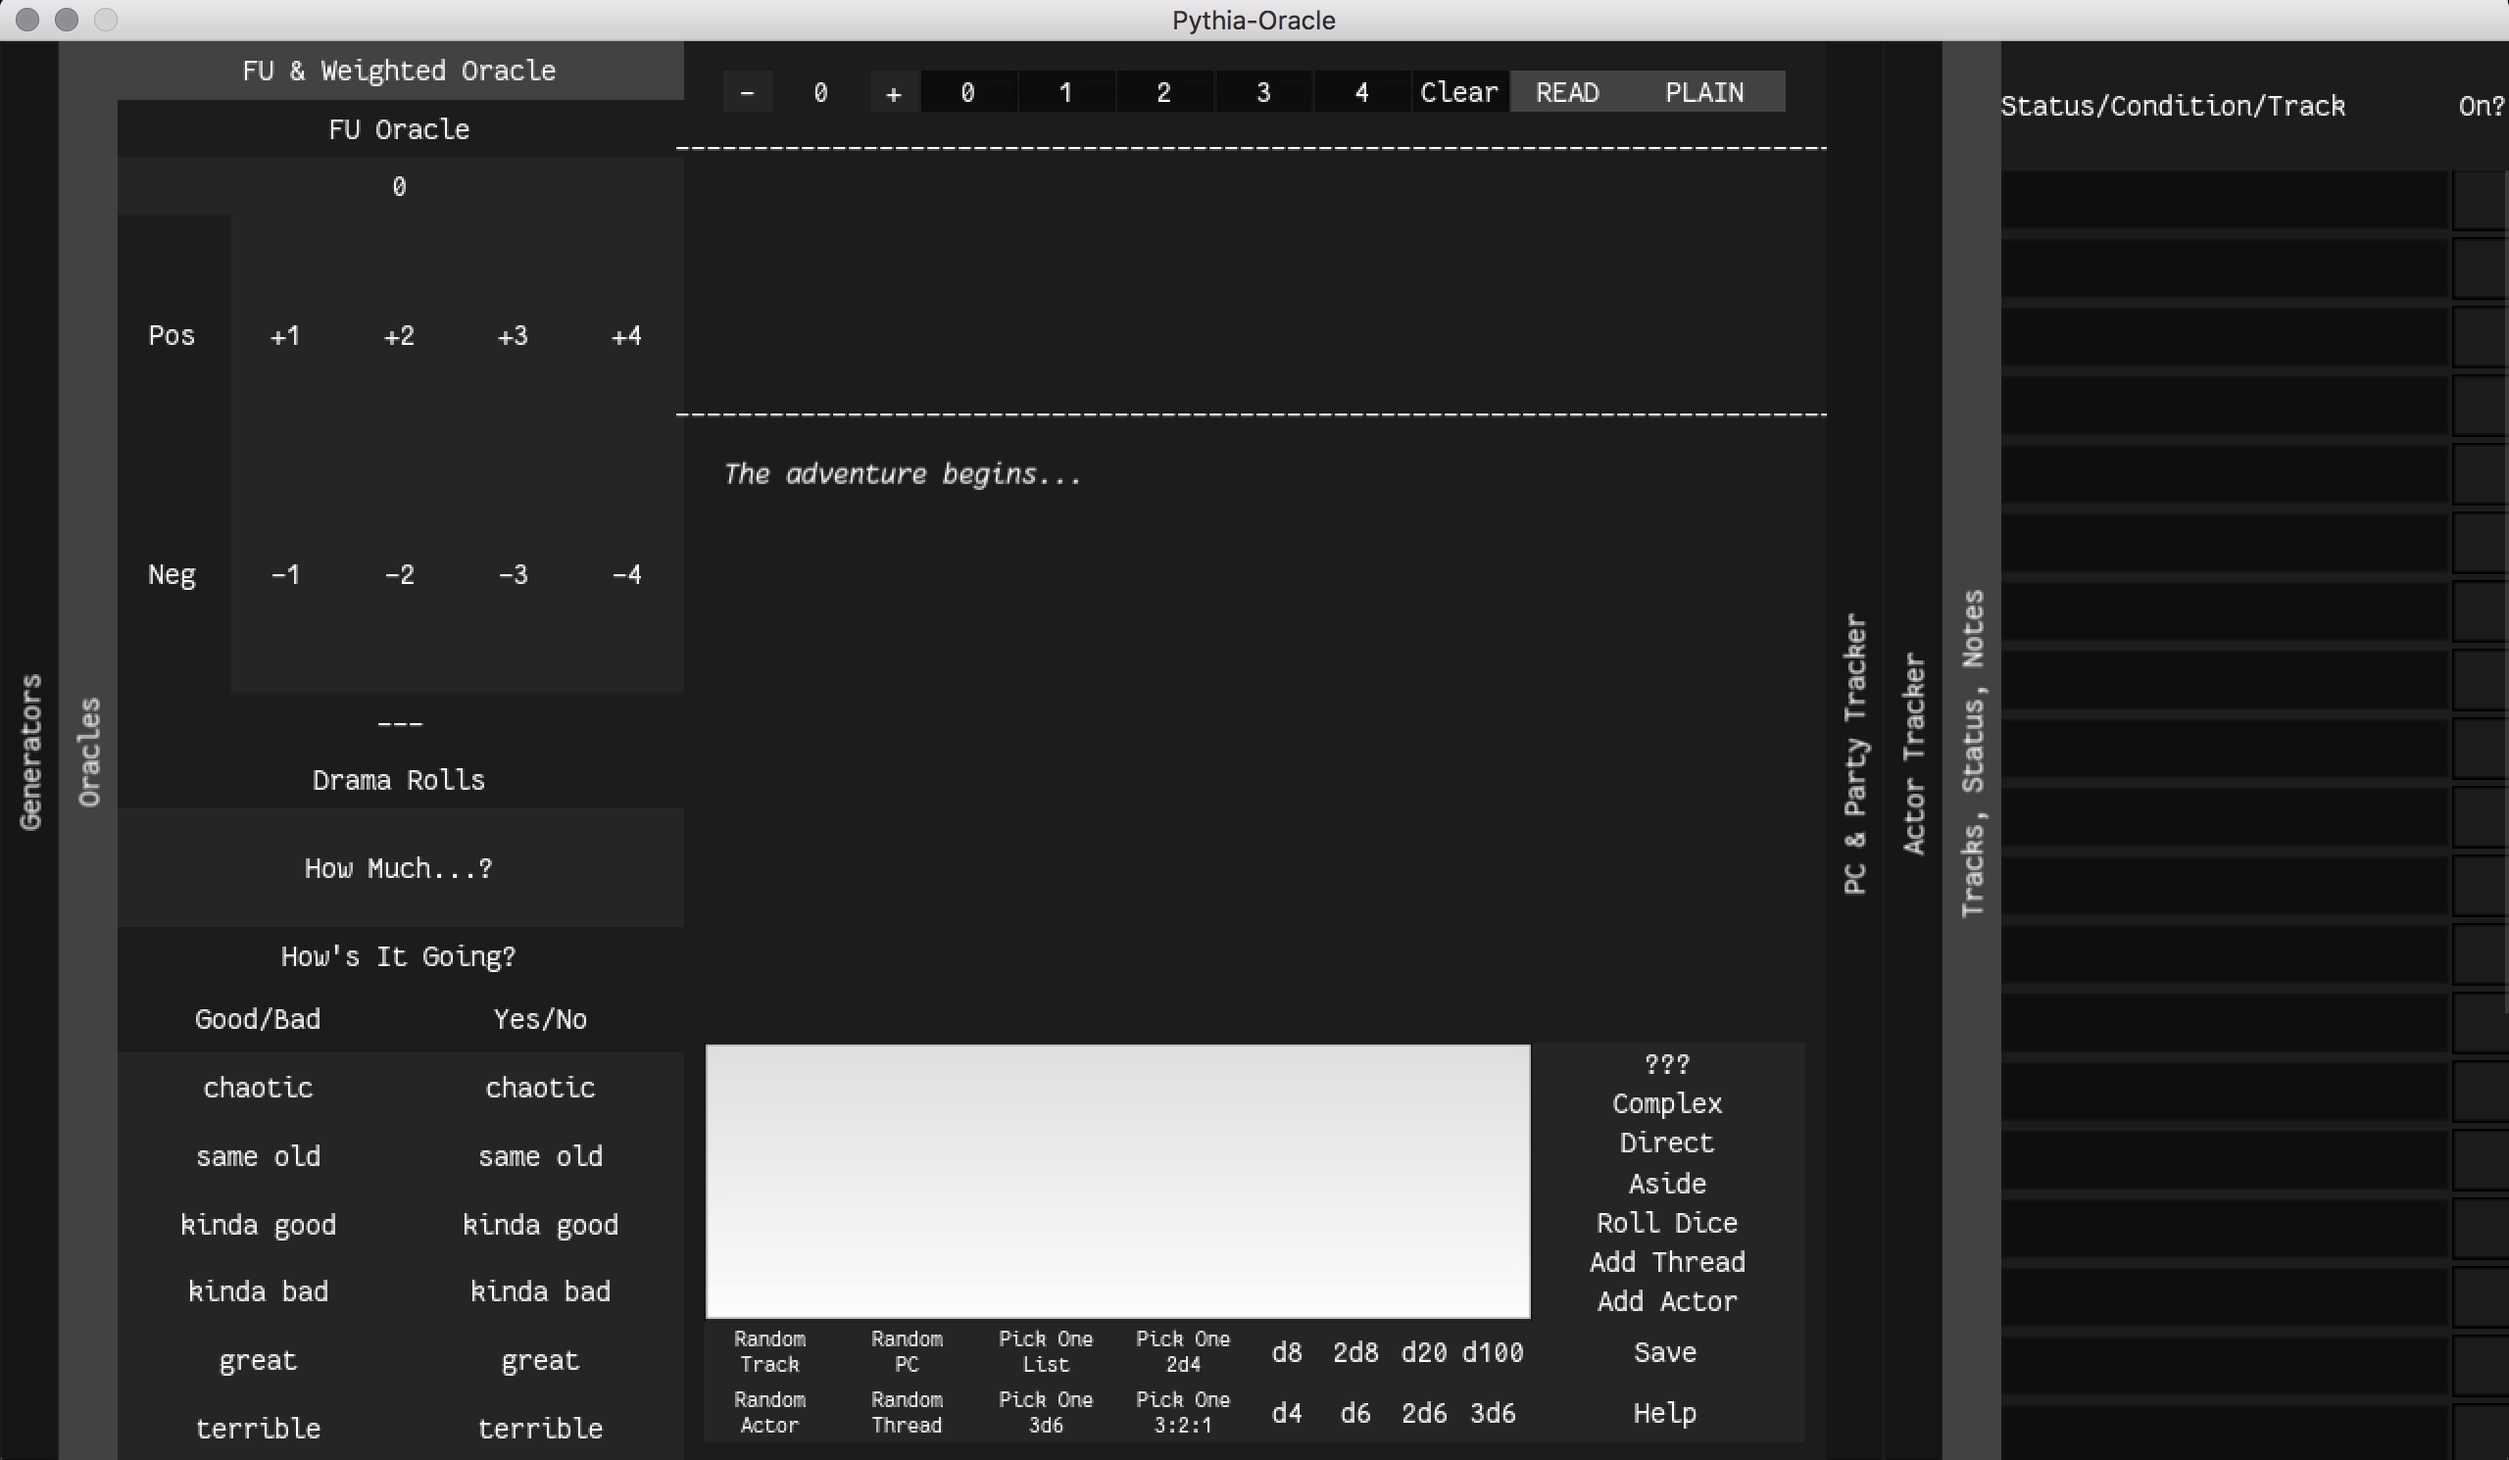
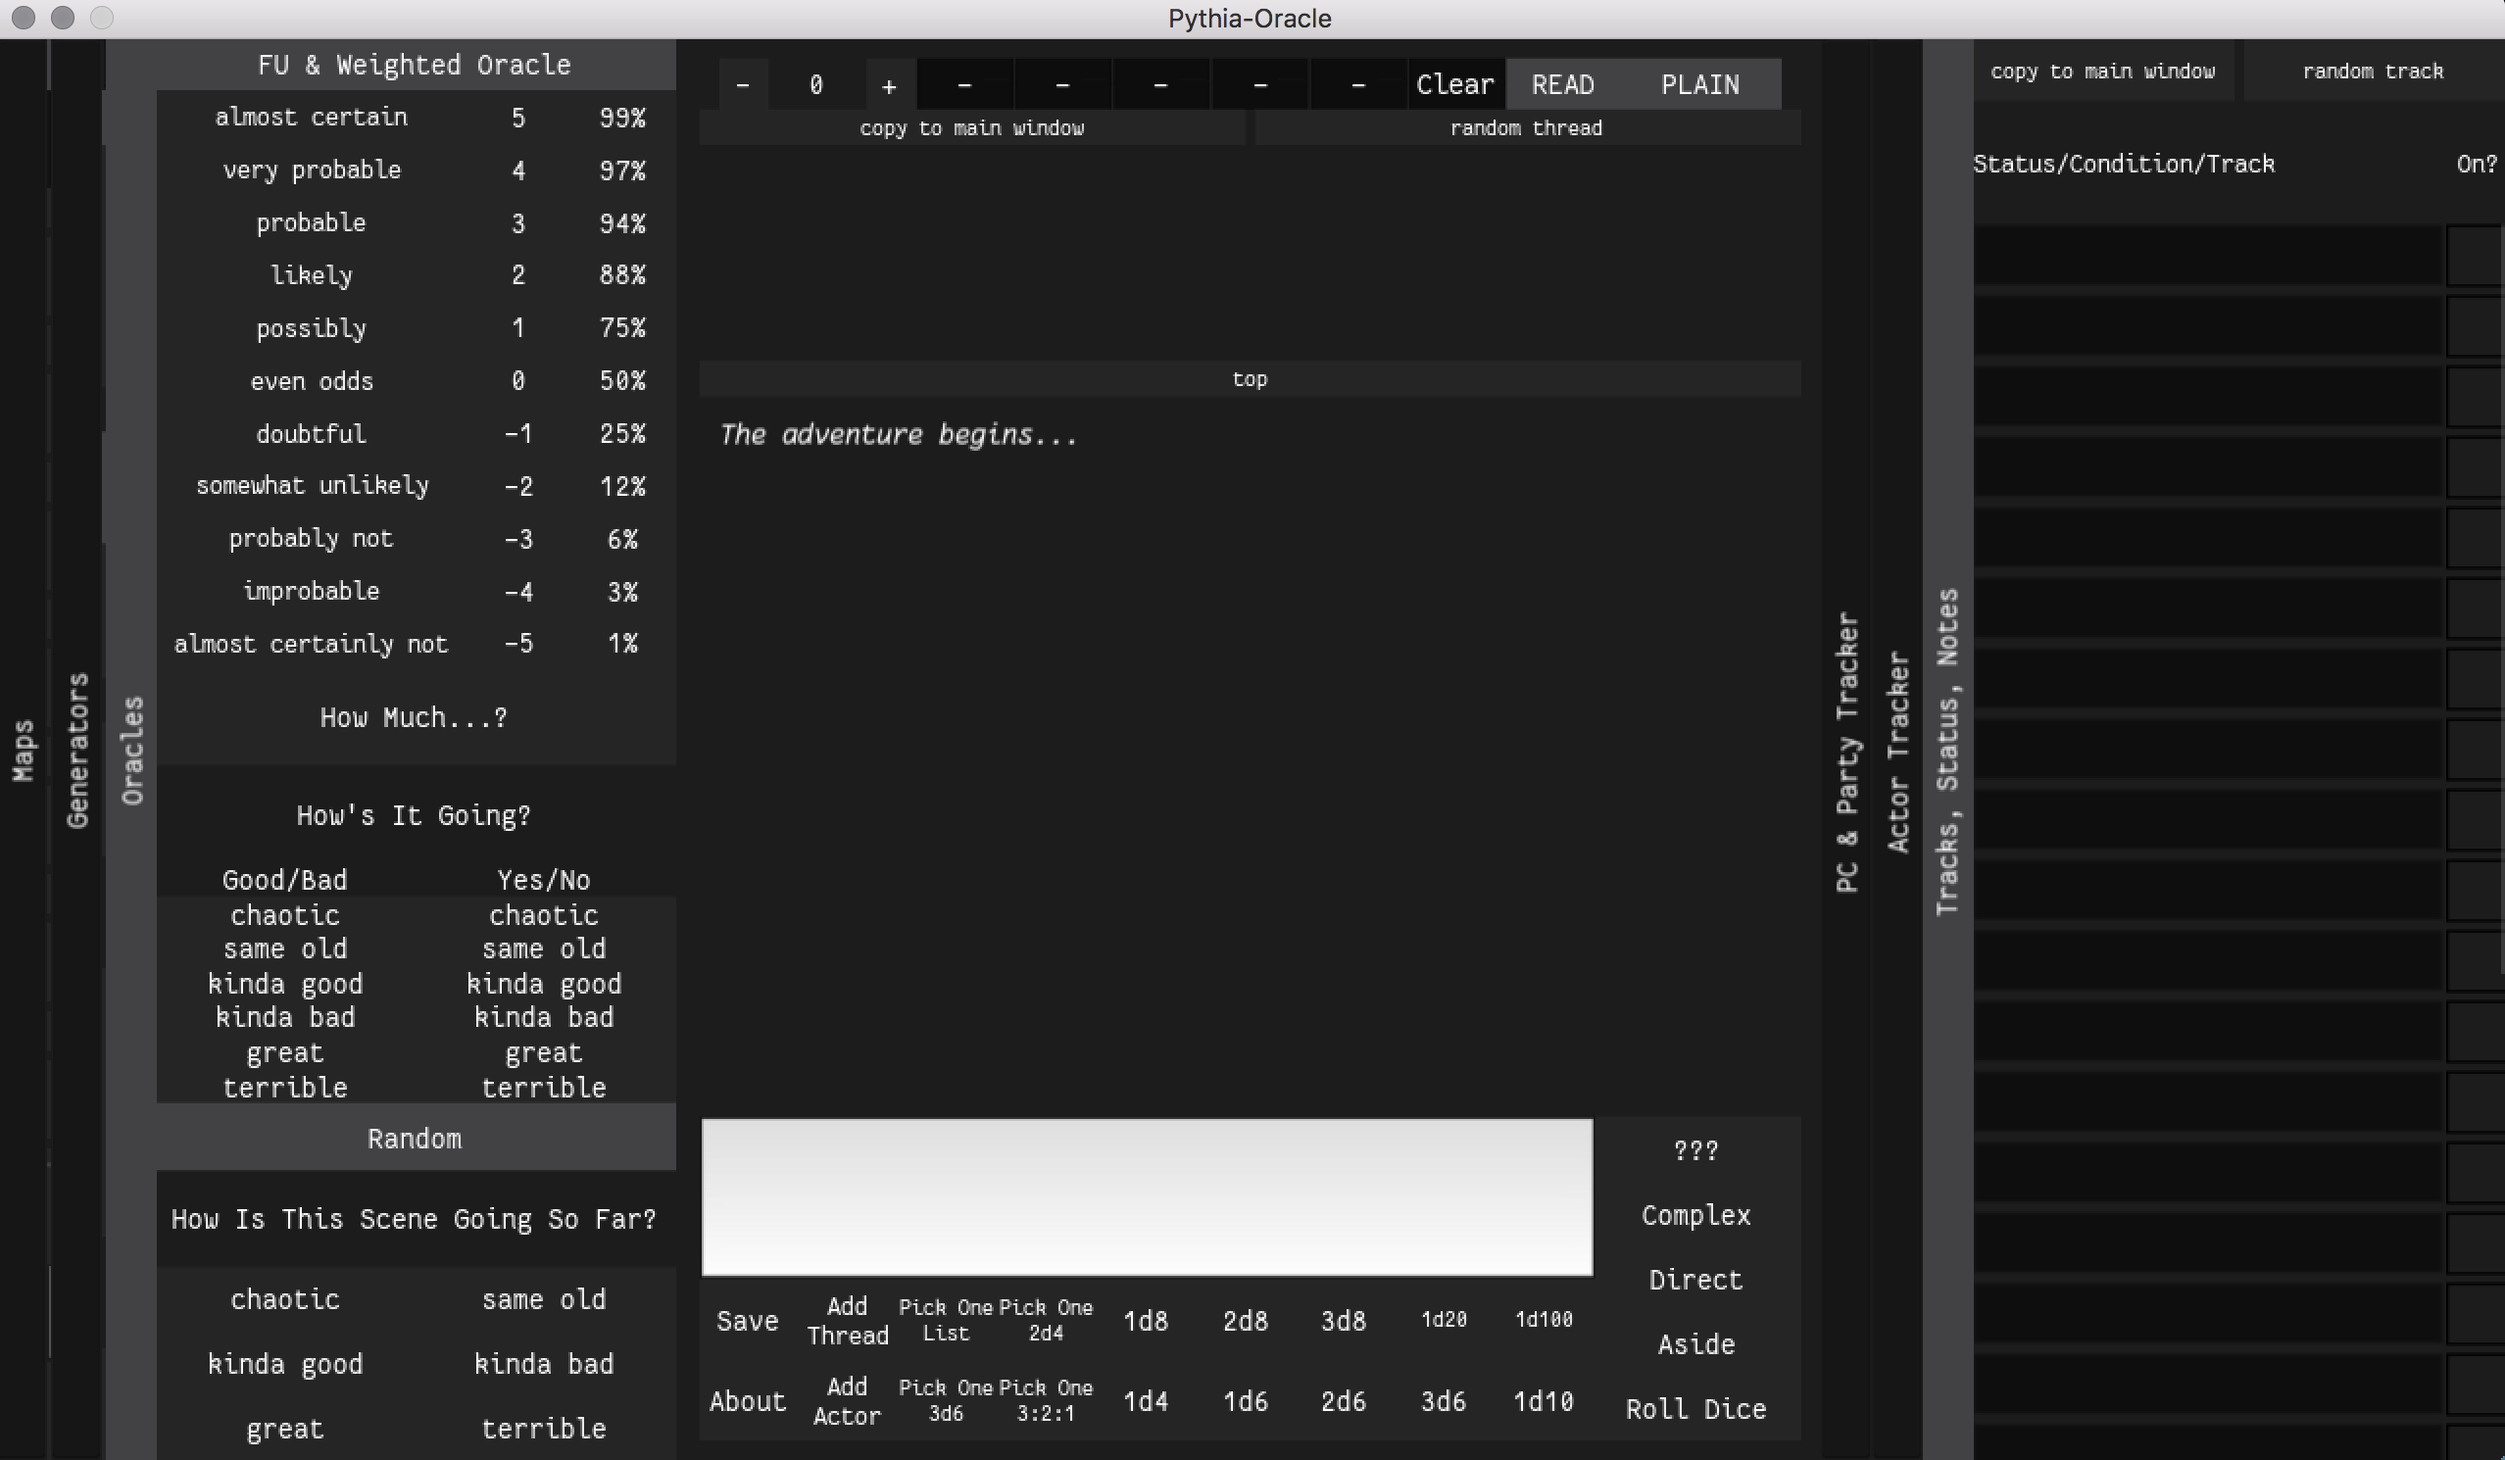
Updating to 0.6.0

diff --git a/index.md b/index.md
@@ -4,7 +4,7 @@ layout: default
 
 [Pythia Oracle](https://github.com/exposit/pythia-oracle) is a tool to make solo RPG gaming easier and to generate content for sandbox RPGs. It's written in Python and Kivy, cross-platform, extensible, and freely available on github.
 
-If you're new to solo gaming (or just want to generate some random content), Pythia Oracle is likely all you need to get started -- it has a built-in oracle for yes and no questions, a number of how much, how many, why, and how's it going random generators, plenty of space to track any information you want to track, and a nice, clean, readable output if you want to show off your adventures on your blog.
+If you're new to solo gaming or just want to generate some random content, Pythia Oracle is likely all you need to get started -- it has an oracle for yes and no questions, a number of how much, how many, what, why, and how's it going random generators, plenty of space to track any information you want to track, and multiple nice, clean, readable output formats if you want to show off your adventures on your blog.
 
 It also plays well with just about any oracle or random content table; you can extend your own panels (if you know a little Python or can copy existing files) or just use the dice roller with your own pdfs.
 
@@ -15,9 +15,9 @@ It also plays well with just about any oracle or random content table; you can e
 * a ton of one click random generators for actors and world content
 * 'pick one' quick buttons that let you weight options on the fly
 * generates markdown, html, json and javascript/html play logs
-* user-extensible oracle, generator, and map panels
 * trackers for [Mythic-style](http://www.drivethrurpg.com/product/16173/Mythic-Role-Playing?it=1) threads and actors, a general key/value tracker & an active/inactive tracker
 * five different view/edit/play modes
+* user-extensible oracle, generator, and map panels
 * map panel inspired by [Scarlet Heroes'](http://www.drivethrurpg.com/product/127180/Scarlet-Heroes) diagram dungeon method (very beta)
 * supports user-created Pythia-style CYOA/Gamebook scenarios (very beta)
 * tutorial dungeon that demonstrates features (very basic) based on part of [Oracle's Decree](http://blog.trilemma.com/2015/10/the-oracles-decree.html) (which is a much better dungeon than I've implemented, ha)
@@ -25,12 +25,14 @@ It also plays well with just about any oracle or random content table; you can e
 ### Screenshots
 
 <a href="{{site.baseurl}}img/screenshot1.png"><img src="{{site.baseurl}}img/screenshot1.png" alt="title screen" height="100" width="200"></a>
-<a href="{{site.baseurl}}img/screenshot2.png"><img src="{{site.baseurl}}img/screenshot2.png" alt="main screen" height="100" width="200"></a>
+<a href="{{site.baseurl}}img/screenshot2.png"><img src="{{site.baseurl}}img/screenshot2.png" alt="oracle screen" height="100" width="200"></a>
+<a href="{{site.baseurl}}img/screenshot3.png"><img src="{{site.baseurl}}img/screenshot3.png" alt="generator screen" height="100" width="200"></a>
+<a href="{{site.baseurl}}img/screenshot4.png"><img src="{{site.baseurl}}img/screenshot4.png" alt="map screen" height="100" width="200"></a>
 
 ### Things to watch out for
 
-Pythia Oracle is a one-person project and designed for my own use and playstyle. It's a little quirky. Adding in panels isn't trivial. I'll likely be updating and tweaking and changing stuff frequently. I'm a total neophyte at [Kivy](https://kivy.org/#home) and the aesthetics could be more pleasing.
+Pythia Oracle is a one-person project and designed for my own use and play style. It's a little quirky. Adding in panels isn't trivial. Scenarios are rudimentary and require imagination and flexibility. I'll likely be updating and tweaking and changing stuff frequently. I have crammed in way more buttons and text than is sensible or user-friendly and probably won't stop until I'm forced to drop the font size to 2. Maybe not even then.
 
-Please back up any text you enter into it frequently. It would be a huge bummer if you put a whole campaign in and the lone save file ended up corrupted or somehow deleted! The save directory (./saves) is located in the root directory alongside the main scripts. (Now backed up as a zip every time you run the program.)
+Please back up any text you enter into it frequently. It would be a huge bummer if you put a whole campaign in and the save file ended up corrupted or somehow deleted! The save directory (./saves) is located in the root directory alongside the main scripts. (As of version 0.5.0, saves are backed up as a zip every time you run the program.)
 
-Not much else to say right now. Go check it out! If you want to contribute, let me know at github.
+Not much else to say right now. Go check it out! If you want to contribute, let me know at github (for a somewhat speedy response) or on my extremely quiet [blog](https://exposit.github.io/katamoiran/) (for an eventual one).

diff --git a/README.md b/README.md
@@ -1,9 +1,9 @@
 #### Pythia-Oracle
-Project page is [here](https://exposit.github.io/pythia-oracle/). My blog is [here](https://exposit.github.io/katamoiran/). Eventually I'll make a more detailed project page. Likely, anyway.
+Project page is [here](https://exposit.github.io/pythia-oracle/). My blog is [here](https://exposit.github.io/katamoiran/).
 
 ##### What is it?
 
-Pythia is a framework to run solo adventures. It uses python and kivy and will probably run on any platform they will. I wrote it with two goals in mind; first, I wanted to be able to generate content on the fly for my multi-player sandbox campaign while keeping track of that content and second, I wanted to be able to run solo characters through adventures that would surprise me. There are many great GM emulating tools out there, software and print. This is what works for me.
+Pythia is a tool for running solo adventures. It uses python and kivy and will probably run on any platform they will. I wrote it with two goals in mind; first, I wanted to be able to generate content on the fly for my multi-player sandbox campaign while keeping track of that content and second, I wanted to be able to run solo characters through adventures that would surprise me. There are many great GM emulating tools out there, software and print. With Pythia, you can use the built-in generators or your own pdfs or stuff you find on the web or wherever -- it doesn't tell you how to play, it just tries to help you do so.
 
 ##### License stuff
 
